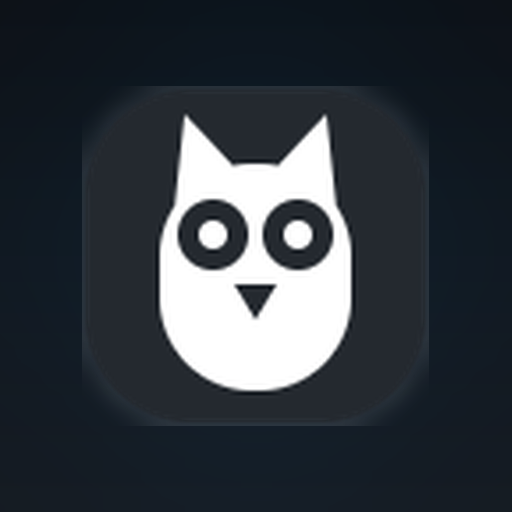
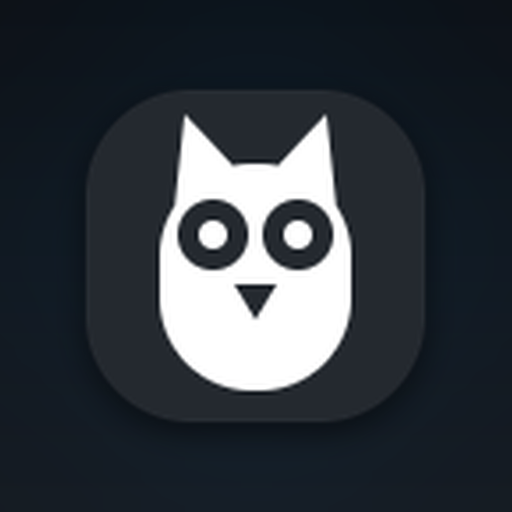
Fix the smeared corners behind the owl in the preview images

diff --git a/scripts/make-social-preview.py b/scripts/make-social-preview.py
@@ -6,8 +6,8 @@ redrawn, so the repo's public face and the icon in your tray cannot drift apart.
 
     python3 scripts/make-social-preview.py
 
-Writes `docs/social-preview.png` (1280x640, for Settings -> General -> Social preview) and
-`docs/icon-512.png` (square, for anywhere an avatar-shaped icon is wanted).
+Writes `docs/social-preview.png` (1280x640, for Settings -> General -> Social preview),
+`docs/icon-512.png` (square, dark backdrop) and `docs/owl-1024.png` (the plain owl, transparent).
 
 Needs Pillow: `pip install --user Pillow`
 """
@@ -61,6 +61,88 @@ def glow(size: tuple[int, int], centre: tuple[int, int], radius: int, colour: tu
     return layer.filter(ImageFilter.GaussianBlur(radius * 0.55))
 
 
+def owl_masks() -> tuple[Image.Image, Image.Image]:
+    """The owl split into its two inked regions, straight from the shipped pixels.
+
+    The glyph is really only three states per pixel — body, face, nothing — which is what makes a
+    crisp upscale possible at all: lift each region out as a mask and the shapes can be re-rendered
+    at any size without ever redrawing them.
+    """
+    src = Image.open(OWL).convert("RGBA")
+    px = src.load()
+    body = Image.new("L", src.size, 0)
+    face = Image.new("L", src.size, 0)
+    b, f = body.load(), face.load()
+    for y in range(src.height):
+        for x in range(src.width):
+            r, g, bl, a = px[x, y]
+            if a < 128:
+                continue
+            b[x, y] = 255
+            # The face is the light half of a two-tone glyph; the tray_blue variant paints it
+            # #00A0FF, so brightness is the wrong test and distance to the dark body is the
+            # right one.
+            if abs(r - 36) + abs(g - 41) + abs(bl - 47) > 120:
+                f[x, y] = 255
+    return body, face
+
+
+def crisp_owl(size: tuple[int, int]) -> Image.Image:
+    """The owl at `size`, upscaled without the mush a straight LANCZOS gives.
+
+    A plain resize of a 98px source to 330 is a soft 3.4x, and to 1024 a soft 10x. Each mask is
+    instead blown up 4x beyond the target, hard-thresholded there, then averaged back down — a clean
+    edge with real anti-aliasing rather than either mush or a staircase.
+    """
+    w, h = size
+    body, face = owl_masks()
+
+    def crisp(mask: Image.Image) -> Image.Image:
+        big = mask.resize((w * 4, h * 4), Image.LANCZOS).point(lambda v: 255 if v >= 128 else 0)
+        return big.resize((w, h), Image.LANCZOS)
+
+    body_a, face_a = crisp(body), crisp(face)
+    out = Image.new("RGBA", (w, h), (36, 41, 47, 0))
+    out.paste((36, 41, 47, 255), (0, 0), body_a)
+    out.paste((255, 255, 255, 255), (0, 0), face_a)
+    return out
+
+
+# How far past the owl the drop shadow is allowed to bleed, as a fraction of its height.
+TILE_BLEED = 0.12
+
+
+def owl_tile(height: int) -> Image.Image:
+    """The owl at `height`, with a soft drop shadow behind it. The layer is larger than the owl.
+
+    **Nothing here draws a plate.** `assets/tray.png` is already a rounded tile: a #24292F plate with
+    the white glyph on it. A rounded rectangle used to be drawn at exactly the owl's size and put
+    through `GaussianBlur(12)`, meant as a lift under a dark glyph on a dark canvas. What it actually
+    did was smear a halo a dozen pixels past the owl's own crisp corners, which is what the banner's
+    blurred-corner look was. Drawing that same plate *sharp* is not the fix either — it just reads as
+    two nested tiles.
+
+    The blur belongs to a shadow, and a shadow goes behind. The silhouette is the owl's own alpha, so
+    it follows the corner radius exactly rather than needing a rounded rectangle guessed to match it.
+    """
+    owl = Image.open(OWL).convert("RGBA")
+    w = round(owl.width * height / owl.height)
+    # LANCZOS, not the threshold trick `crisp_owl` uses: at this 3.4x the threshold snaps the contour
+    # back onto the 98px source grid and the curve visibly stair-steps. That trick earns its keep at
+    # `plain_icon`'s 10x, where a plain resize really is mush.
+    owl = owl.resize((w, height), Image.LANCZOS)
+
+    bleed = round(height * TILE_BLEED)
+    layer = Image.new("RGBA", (w + bleed * 2, height + bleed * 2), (0, 0, 0, 0))
+
+    drop = round(height * 0.03)
+    shadow = Image.new("RGBA", layer.size, (0, 0, 0, 0))
+    shadow.paste((0, 0, 0, 140), (bleed, bleed + drop), owl.getchannel("A"))
+    layer.alpha_composite(shadow.filter(ImageFilter.GaussianBlur(height * 0.045)))
+    layer.alpha_composite(owl, (bleed, bleed))
+    return layer
+
+
 def pill(draw: ImageDraw.ImageDraw, x: int, y: int, label: str, colour: tuple, f) -> int:
     """A chip: a short bar in the mark's own colour, then the word. Returns its right edge."""
     pad_x, bar_w, bar_h, gap = 18, 8, 26, 12
@@ -85,17 +167,8 @@ def banner() -> None:
     img.alpha_composite(glow((w, h), (300, 300), 320, BLUE, 34))
     img.alpha_composite(glow((w, h), (980, 520), 300, RED, 12))
 
-    owl = Image.open(OWL).convert("RGBA")
-    oh = 330
-    ow = round(owl.width * oh / owl.height)
-    owl = owl.resize((ow, oh), Image.LANCZOS)
-
-    # The owl body is #24292F: near-invisible on a dark canvas without a lift under it.
-    plate = Image.new("RGBA", (ow, oh), (0, 0, 0, 0))
-    ImageDraw.Draw(plate).rounded_rectangle((0, 0, ow - 1, oh - 1), radius=round(oh * 0.22), fill=(255, 255, 255, 26))
-    ox, oy = 150, (h - oh) // 2
-    img.alpha_composite(plate.filter(ImageFilter.GaussianBlur(12)), (ox, oy))
-    img.alpha_composite(owl, (ox, oy))
+    tile = owl_tile(340)
+    img.alpha_composite(tile, (150 - round(340 * TILE_BLEED), (h - tile.height) // 2))
 
     d = ImageDraw.Draw(img)
     x = 560
@@ -119,21 +192,22 @@ def square_icon() -> None:
     img = vertical_gradient((s, s), CANVAS, CANVAS_2).convert("RGBA")
     img.alpha_composite(glow((s, s), (s // 2, s // 2), 240, BLUE, 30))
 
-    owl = Image.open(OWL).convert("RGBA")
-    oh = 340
-    ow = round(owl.width * oh / owl.height)
-    owl = owl.resize((ow, oh), Image.LANCZOS)
-    ox, oy = (s - ow) // 2, (s - oh) // 2
-
-    plate = Image.new("RGBA", (ow, oh), (0, 0, 0, 0))
-    ImageDraw.Draw(plate).rounded_rectangle((0, 0, ow - 1, oh - 1), radius=round(oh * 0.22), fill=(255, 255, 255, 26))
-    img.alpha_composite(plate.filter(ImageFilter.GaussianBlur(12)), (ox, oy))
-    img.alpha_composite(owl, (ox, oy))
+    tile = owl_tile(340)
+    img.alpha_composite(tile, ((s - tile.width) // 2, (s - tile.height) // 2))
 
     img.convert("RGB").save(OUT_ICON, optimize=True)
     print(f"wrote {OUT_ICON.relative_to(ROOT)} ({s}x{s})")
 
 
+def plain_icon(size: int = 1024) -> None:
+    """The owl on its own, transparent background."""
+    out = crisp_owl((size, size))
+    path = ROOT / "docs" / f"owl-{size}.png"
+    out.save(path, optimize=True)
+    print(f"wrote {path.relative_to(ROOT)} ({size}x{size}, transparent)")
+
+
 if __name__ == "__main__":
     banner()
     square_icon()
+    plain_icon()
